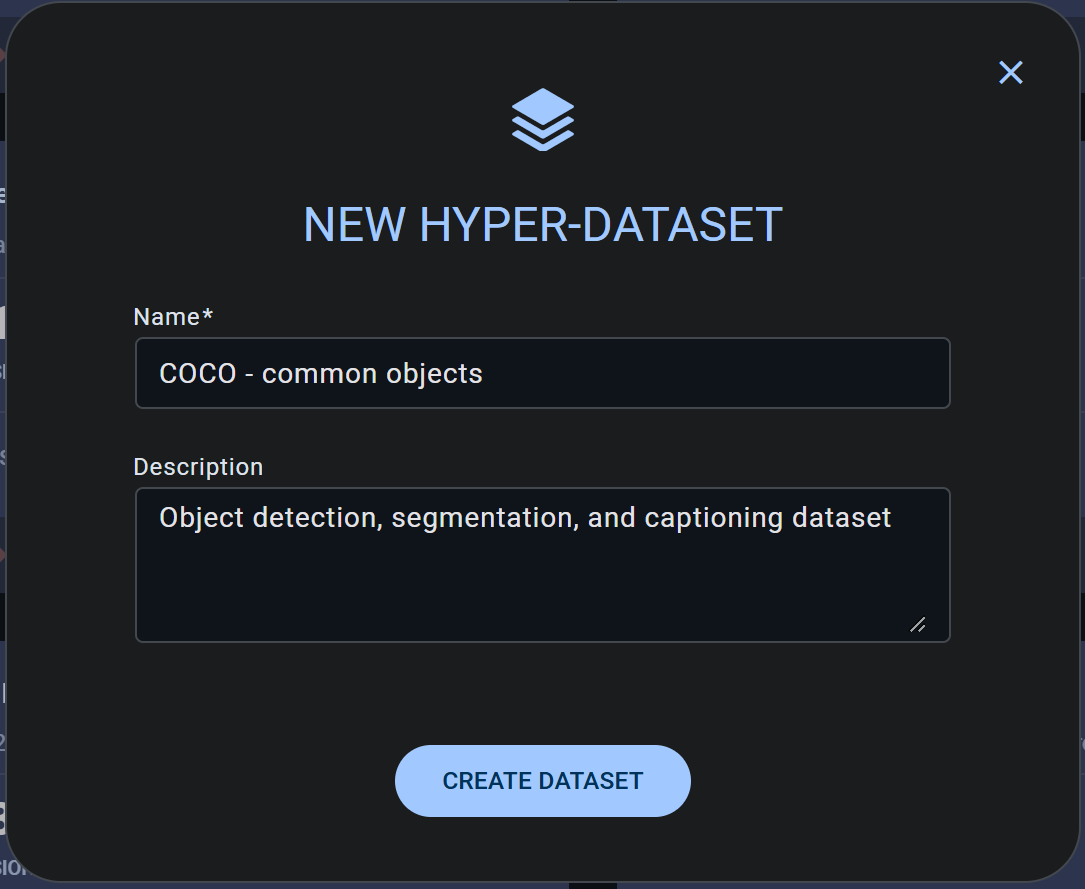
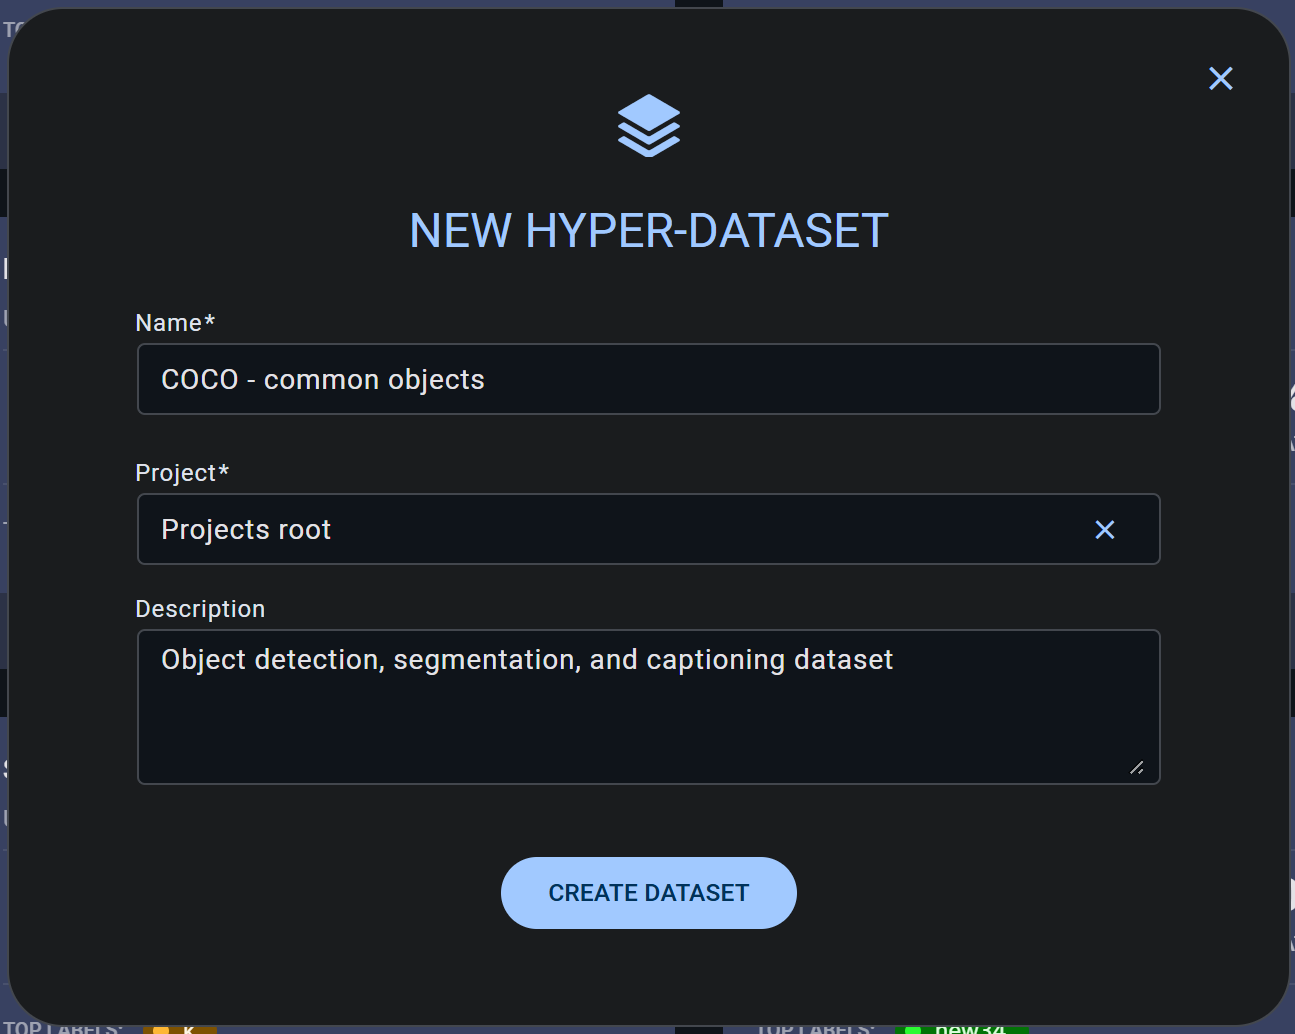
Update docs (#1348)

diff --git a/sidebars.js b/sidebars.js
@@ -315,10 +315,10 @@ module.exports = {
             {
                 'Enterprise':
                         [
-                           'release_notes/clearml_server/enterprise/ver_3_27',
+                           'release_notes/clearml_server/enterprise/ver_3_28',
                            {
                                 'Older Versions': [
-                                     'release_notes/clearml_server/enterprise/ver_3_26',
+                                     'release_notes/clearml_server/enterprise/ver_3_27', 'release_notes/clearml_server/enterprise/ver_3_26',
                                      'release_notes/clearml_server/enterprise/ver_3_25', 'release_notes/clearml_server/enterprise/ver_3_24',
                                      'release_notes/clearml_server/enterprise/ver_3_23', 'release_notes/clearml_server/enterprise/ver_3_22',
                                      'release_notes/clearml_server/enterprise/ver_3_21', 'release_notes/clearml_server/enterprise/ver_3_20'

diff --git a/docs/webapp/webapp_exp_track_visual.md b/docs/webapp/webapp_exp_track_visual.md
@@ -61,7 +61,7 @@ In full-screen mode, the source code and output details are grouped in the **DET
 ### Source Code
 
 The Source Code section of a task's **EXECUTION** tab includes:
-* The task's repository
+* The task's repository - Click link to open the repository at the specified revision 
 * Commit ID
 * Script path
 * Working directory
@@ -323,7 +323,7 @@ a `Summary` table.
 ![Single value scalar plot](../img/webapp_single_scalar_plot.png#light-mode-only)
 ![Single value scalar plot](../img/webapp_single_scalar_plot_dark.png#dark-mode-only)
 
-#### Scalar Plot Tools
+##### Scalar Plot Tools
 
 Use the scalar tools to improve analysis of scalar metrics. In the info panel, click <img src="/docs/latest/icons/ico-tune.svg" alt="Tuning" className="icon size-md" /> to access the tools. In the full-screen details view, the tools
 are on the left side of the window. The tools include:
@@ -362,7 +362,7 @@ configuration as the default view for the project’s task and model scalars.
 
 See additional [plot controls](#plot-controls) below.
 
-#### Embedding Plots
+##### Embedding Plots
 
 To embed scalar plots in your [Reports](webapp_reports.md), hover over a plot and click Embed <img src="/docs/latest/icons/ico-plotly-embed-code.svg" alt="Embed code" className="icon size-md space-sm" />, 
 which will copy to clipboard the embed code to put in your Reports. To quickly get the embed codes for all plots of a 
@@ -393,13 +393,14 @@ If all the values of a specific metric/variant are the same, the row will displa
 ![Plots tab](../img/webapp_tracking_34a.png#light-mode-only)
 ![Plots tab](../img/webapp_tracking_34a_dark.png#dark-mode-only)
 
-Choose which metrics to view using one of the following out the options:
-* Use the quick filter bar (<img src="/docs/latest/icons/ico-search.svg" alt="Magnifying glass" className="icon size-md space-sm" />) 
-to only show metrics/variants whose name fit a partial-string match 
-* Use the filter menu (<img src="/docs/latest/icons/ico-filter-off.svg" alt="Filter" className="icon size-md" />) to 
-select which metrics to view by clicking their show/hide button (<img src="/docs/latest/icons/ico-show.svg" alt="Eye Show" className="icon size-md space-sm" />). 
-Click **Hide/Show all**, to quickly hide/show all metrics.
+#### Select Metrics and Variants to View
 
+Choose which metrics to view using one of the following options:
+* Quick filter bar (<img src="/docs/latest/icons/ico-search.svg" alt="Magnifying glass" className="icon size-md space-sm" />) - Show 
+  metrics/variants whose name fit a partial-string match 
+* Filter menu (<img src="/docs/latest/icons/ico-show.svg" alt="Eye Show" className="icon size-md space-sm" /> in Graph View, <img src="/docs/latest/icons/ico-filter-off.svg" alt="Filter" className="icon size-md" /> in Metric 
+  Values View) - Select which metrics to view by clicking their show/hide button (<img src="/docs/latest/icons/ico-show.svg" alt="Eye Show" className="icon size-md space-sm" />). 
+  Click **Hide/Show all** to quickly hide/show all metrics (when the selection is focused through search, the Hide/Show action applies to the matching metrics only).
 
 ### Plots
 Non-time-series plots appear in **PLOTS**. These include data generated by libraries, visualization tools, and 
@@ -422,6 +423,13 @@ buttons (or using the left/right arrow keyboard shortcut).
 
 ![Plots maximize tab](../img/webapp_tracking_35a.png#light-mode-only)
 ![Plots maximize tab](../img/webapp_tracking_35a_dark.png#dark-mode-only)
+
+Choose which plots to display using the following options:
+* Quick filter bar (<img src="/docs/latest/icons/ico-search.svg" alt="Magnifying glass" className="icon size-md space-sm" />) - Show 
+  metrics/variants whose name fit a partial-string match 
+* Filter menu - Select which metrics to view by clicking their show/hide button (<img src="/docs/latest/icons/ico-show.svg" alt="Eye Show" className="icon size-md space-sm" />). 
+  Click **Hide/Show all** to quickly hide/show all metrics (when the selection is focused through search, the Hide/Show 
+  action applies to the matching metrics only).
 
 #### Plot Controls
 

diff --git a/docs/release_notes/clearml_server/enterprise/ver_3_28.md b/docs/release_notes/clearml_server/enterprise/ver_3_28.md
@@ -1,0 +1,59 @@
+---
+title: Version 3.28
+---
+
+### Enterprise Server 3.28.0
+
+**New Features and Improvements**
+* New Event Metering service for aggregate usage data collection
+  * Deployment owners define custom tracked events and associated costs
+  * Admin UI analytics page provides usage and cost monitoring
+* Resource Policies: 
+  * Enable admins to re-assign resource policy to a different user group
+  * Add currently running tasks to Resource Policy UI page.
+* New UI admin settings page for centrally managing App Gateway Access Tokens 
+* Improve Hyper-Dataset UI project support:
+  * Add option to specify a dataset’s project when creating a Hyper-Dataset
+  * Add action to move Hyper-Dataset to another project
+* Add UI task clone options to reset Dataviews and Python requirements
+* Add UI Application launch form configuration reference for form overrides
+* Task Comparison view: Display task color indicators in task list instead of task legend ([ClearML #1461](https://github.com/clearml/clearml/issues/1461))
+* Add show/hide matching filter control to UI Task Scalars and Plots ([ClearML #744](https://github.com/clearml/clearml/issues/744), [ClearML #1253](https://github.com/clearml/clearml/issues/1253))
+* Enable customizing the default name format of Hyper-Dataset versions
+* Optimize queues data retrieval speed in UI Orchestration
+* Make Task Repository URL in Task Execution tab clickable
+* Support short project names (fewer than 3 characters)
+
+**Bug Fixes**
+* Fix API Server sometimes crashes on sharded Redis deployments ([ClearML Server #305](https://github.com/clearml/clearml-server/issues/305))
+* Fix UI bulk task reset affecting published tasks ([ClearML #1490](https://github.com/clearml/clearml/issues/1490))
+* Fix S3 presigned debug samples embedded in UI Reports and Projects Overview not rendered
+* Fix Admin user can manage queues after being removed from Queue Admin group
+* Fix inability to create Hyper-Datasets with the same name in different projects
+* Fix "Delete" function is sometimes disabled in UI Dataviews table archive
+* UI Object table filters:
+  * Fix "User" filter displaying outdated usernames after name change
+  * Fix "User" filter in UI "All Dataviews"/"All Models" tables  not displaying users who have no tasks
+* Applications UI
+  * Fix App instance list displaying previous instance name after relaunching instance with a new name
+  * Fix App instance list filter (My Instances / All / Running) not working
+* UI Breadcrumbs
+  * Fix UI Hyper-Dataset breadcrumb sometimes missing project name
+  * Fix Hyper-Dataset name missing in breadcrumbs when multiple tags are present
+  * Fix “Archive” tag displayed in breadcrumb when creating a new report matching an archived report’s name
+* Fix Scientific notation can't be used in integer/float fields in UI Pipeline "New Run" modal
+* Fix tasks not appearing in the correct queue after being moved in UI **Orchestration > Queues**
+* Fix UI Task Latest Events Log sometimes displays incorrect action source version
+* Fix missing Projects’ root folder in UI Hyper-Dataset page in project view
+* Task Dataviews:
+  * Fix **UI Task > Import Dataview** modal search only returning exact full-name matches
+  * Fix UI **Task > Import Dataview** sometimes incorrectly displays empty Dataview list
+* Fix Projects Workload graph's tooltip does not display all legends
+* Fix UI Task Scalars tab hiding multiple graphs with the same name when toggling one
+* Fix Project Path icon displayed on Root Project folder in UI Reports page
+* Fix last graph legends in UI task table comparison view are obscured
+* Fix "Enqueue" button is enabled in UI Task "Enqueue" / "Retry" modal when "Queue" field is blank
+* Fix "Add" button is enabled in UI settings "Add Users" modal when "Email" field is blank
+* Fix Hyper-Dataset cannot be renamed back to original name after first rename
+* Fix “No data to show” message incorrectly appearing while UI pages load
+* Fix UI Orchestration Dashboard Event Log modal not displaying "Jump to top" and "Jump to bottom" buttons

diff --git a/docs/webapp/resource_policies.md b/docs/webapp/resource_policies.md
@@ -67,6 +67,8 @@ The policy details panel displays:
 The top card displays the policy information:
 * Policy name
 * Current usage - The number of resources currently in use (i.e. by currently running jobs)
+* Resource consumption breakdown - Click <img src="/docs/latest/icons/ico-resource-list.svg" alt="task list" className="icon size-md space-sm" />
+  to view tasks currently using  this policy’s resources: Task name, number of resources consumed, and more. Click a task name to go to its [task page](webapp_exp_track_visual.md).
 * Reserved resources
 * Resource limit
 * User group that the policy applies to - click to show list of users in the group
@@ -99,8 +101,17 @@ To modify a resource policy, click **Edit** to open the details panel in editor 
 ### To Modify Policy Parameters
 
 1. On the resource policy card, click <img src="/docs/latest/icons/ico-bars-menu.svg" alt="Menu" className="icon size-md space-sm" /> **> Edit**
-1. In the Edit Resource Policy modal, you can modify the policy’s name, number of reserved resources, resource limit, 
-and description
+1. In the `Edit Resource Policy` modal, you can modify the following:
+   * Policy name
+   * Number of reserved resources
+   * Resource limit
+   * [User group](settings/webapp_settings_users.md#user-groups) to which the policy applies.
+     :::note
+     Changing the user group will remove any pending tasks from users not in the new group from the policy’s queues..
+     :::
+   
+   * Description
+
 1. Click **Save**
 
 ### To Add a Resource Profile to a Policy

diff --git a/docs/webapp/webapp_exp_reproducing.md b/docs/webapp/webapp_exp_reproducing.md
@@ -2,13 +2,13 @@
 title: Reproducing Task Runs
 ---
 
-Reproducing task runs on local or remote machines in one of the following ways:
+You can reproduce task runs on local or remote machines in one of the following ways:
 * Cloning any task - Make an exact copy, while maintaining the original task
 * Resetting a task whose status is not *Published* - Delete the previous run's logs and output
 
 After cloning or resetting, enqueue the reset or newly cloned task for execution by a worker.
 
-Tasks can also be modified and then executed remotely, see [Tuning Tasks](webapp_exp_tuning.md).
+Tasks can also be modified before execution. See [Tuning Tasks](webapp_exp_tuning.md).
 
 ## Cloning
 To clone a task:
@@ -22,6 +22,8 @@ To clone a task:
      ::: 
    
    * Set `<cloned_task>` as parent - Select to set this task as the new task's parent
+   * Clear Dataviews (Enterprise feature) - If selected, the new task will start with no Dataviews 
+   * Force Original Packages - If selected, use the parent tasks's `original pip`/`original conda` for the new task’s [`Python Packages`](webapp_exp_track_visual.md#python-packages).
    * Description (optional)
 1. Click **Clone**
 
@@ -31,9 +33,12 @@ have a parent, in which case the original task is set as the parent. Select `Set
 the original task to become the clone's parent. 
 :::
 
+<div class="max-w-75">
+
 ![Clone modal](../img/webapp_clone.png#light-mode-only)
 ![Clone modal](../img/webapp_clone_dark.png#dark-mode-only)
 
+</div>
 
 ## Resetting
 

diff --git a/docs/hyperdatasets/webapp/webapp_datasets_versioning.md b/docs/hyperdatasets/webapp/webapp_datasets_versioning.md
@@ -55,13 +55,16 @@ Access dataset version actions, by right-clicking a version, or through the menu
 
 * **Rename** - Change the version's name
 * **Create New Version** - Creates a child version of a *Published* dataset version. The new version is created in a *draft*
-  state, and inherits all the parent version's frames
+  state, and inherits all the parent version's frames. The template for the default value of new dataset version names 
+  can be set in [**Settings > Hyper-Dataset New Version Name Template**](../../webapp/settings/webapp_settings_ui_customization.md#hyper-dataset-new-version-name-template).
 * **Delete** - Delete the version. Only *Draft* versions can be deleted.  
 * **Publish** - Make a *Draft* version read-only to preserve its contents. 
  
 :::tip Publishing versions
 When publishing a version, you can create an additional working copy. The new version is created in a *draft* state, and 
-inherits all the published version's frames. 
+inherits all the published version's frames. By default, the newly created working copy inherits the original version's 
+name, while the published original version is automatically renamed to reflect its published state. The template for 
+the default value of published  version names can be set in [**Settings > Hyper-Dataset New Version Name Template**](../../webapp/settings/webapp_settings_ui_customization.md#hyper-dataset-new-version-name-template).
 
 <div class="max-w-75">
 

diff --git a/docs/clearml_sdk/task_sdk.md b/docs/clearml_sdk/task_sdk.md
@@ -8,7 +8,7 @@ The following page provides an overview of the basic Pythonic interface to Clear
 
 [`Task.init`](../references/sdk/task.md) is the main method used to create tasks in ClearML. It will create a task, and 
 populate it with:
-* A link to the running git repository (including commit ID and local uncommitted changes)
+* A link to the Git repository that contains the source code (including commit ID and local uncommitted changes)
 * Python packages used (i.e. directly imported Python packages, and the versions available on the machine)
 * Argparse arguments (default and specific to the current execution)
 * Reports to Tensorboard and Matplotlib and model checkpoints.
@@ -19,7 +19,7 @@ To ensure every run will provide the same results, ClearML controls the determin
 :::
 
 :::note
-ClearML object (such as task, project) names are required to be at least 3 characters long
+Task names are required to be at least 3 characters long.
 :::
 
 ```python
@@ -28,7 +28,7 @@ from clearml import Task
 
 task = Task.init(
     project_name='example',    # project name of at least 3 characters
-    task_name='task template', # task name of at least 3 characters
+    task_name='task template',
     task_type=None,
     tags=None,
     reuse_last_task_id=True,

diff --git a/docs/hyperdatasets/webapp/webapp_datasets.md b/docs/hyperdatasets/webapp/webapp_datasets.md
@@ -90,10 +90,11 @@ of a dataset card to open its context menu and access dataset actions:
 * **Add Tag** - Add label to the dataset to help easily classify groups of datasets.
 * **Edit Metadata** - Modify dataset-level metadata. This will open the metadata edit window, where you can edit the section
 * **Delete** - Delete the dataset and all its versions.  
-  <br/><br/>
+  <br/>
   :::warning
   You cannot undo the deletion of a Hyper-Dataset.
   :::
+* **Move to Project** - Move the dataset to another project.
 
 
 ## Create New Hyper-Datasets
@@ -101,7 +102,7 @@ of a dataset card to open its context menu and access dataset actions:
 To create a Hyper-Dataset, click the **+ NEW DATASET** button in the top right of the page, which will open a 
 **New Dataset** modal.
 
-<div class="max-w-50">
+<div class="max-w-75">
 
 ![Hyper-Dataset creation modal](../../img/hyperdatasets/webapp_hyperdataset_creation.png#light-mode-only)
 ![Hyper-Dataset creation modal](../../img/hyperdatasets/webapp_hyperdataset_creation_dark.png#dark-mode-only)

diff --git a/docs/deploying_clearml/enterprise_deploy/app_launch_form_custom.md b/docs/deploying_clearml/enterprise_deploy/app_launch_form_custom.md
@@ -37,6 +37,18 @@ app_wizard_overrides {
 
 Refer to the configuration file of a specific application to view the property IDs for use when overriding. 
 
+The `app-id`, configuration-parameter and property names for a specific app are the same ones used in the `wizard` 
+section of its configuration file.
+
+:::tip Live configuration reference
+Admins can get the required field names for a specific application through a builtin reference in the app’s UI form as follows: 
+* Click the `+` to open the app instance launch form
+* In the form enable `Show Form Spec` (the application ID is available in the information tooltip for this UI control). 
+
+Hover over <img src="/docs/latest/icons/ico-settings.svg" alt="Setting Gear" className="icon size-md" /> next to a field 
+to view the name of that field in the application specification file.
+:::
+
 ### Supported Properties
 
 * `options` - Accepts an array of strings or mappings in the format of `{"label": "<option label>", "value": "<option value>"}`

diff --git a/docs/webapp/applications/apps_container_launcher.md b/docs/webapp/applications/apps_container_launcher.md
@@ -61,6 +61,13 @@ To configure a new app instance, click `Launch New` Add new to open the app's in
 
 ### Configuration Options
 
+:::note
+Administrators can [customize](../../deploying_clearml/enterprise_deploy/app_launch_form_custom.md) the launch form and 
+modify field names and/or available options and defaults. 
+
+This section describes the default configuration provided by ClearML
+:::
+
 * **Import Configuration** - Import an app instance configuration file. This will fill the instance launch form with the values from the file, which can be modified before launching the app instance  
 * **Application Session Name** - Name for the container launcher instance. This will appear in the instance list  
 * **Application instance project** - ClearML Project where your app instance will be stored  

diff --git a/docs/webapp/applications/apps_aws_autoscaler.md b/docs/webapp/applications/apps_aws_autoscaler.md
@@ -116,6 +116,14 @@ To configure a new app instance, click `Launch New` <img src="/docs/latest/icons
 to open the app's instance launch form.
 
 ### Configuration Options
+
+:::note
+Administrators can [customize](../../deploying_clearml/enterprise_deploy/app_launch_form_custom.md) the launch form and 
+modify field names and/or available options and defaults. 
+
+This section describes the default configuration provided by ClearML
+:::
+
 * **Import Configuration** - Import an app instance configuration file. This will fill the instance launch form with the 
   values from the file, which can be modified before launching the app instance
 * **AWS Credentials** - Credentials with which the autoscaler can access your AWS account. See [Generating AWS IAM Credentials](#generating-aws-iam-credentials)

diff --git a/docs/webapp/applications/apps_dashboard.md b/docs/webapp/applications/apps_dashboard.md
@@ -11,6 +11,14 @@ view of task status and a chosen metric over time, as well as project GPU and wo
 on completed/failed Tasks via Slack integration.
 
 ## Project Dashboard Instance Configuration
+
+:::note
+Administrators can [customize](../../deploying_clearml/enterprise_deploy/app_launch_form_custom.md) the launch form and 
+modify field names and/or available options and defaults. 
+
+This section describes the default configuration provided by ClearML
+:::
+
 * **Import Configuration** - Import an app instance configuration file. This will fill the instance launch form with the 
   values from the file, which can be modified before launching the app instance
 * **Dashboard Title** - Name of the project dashboard instance, which will appear in the instance list
